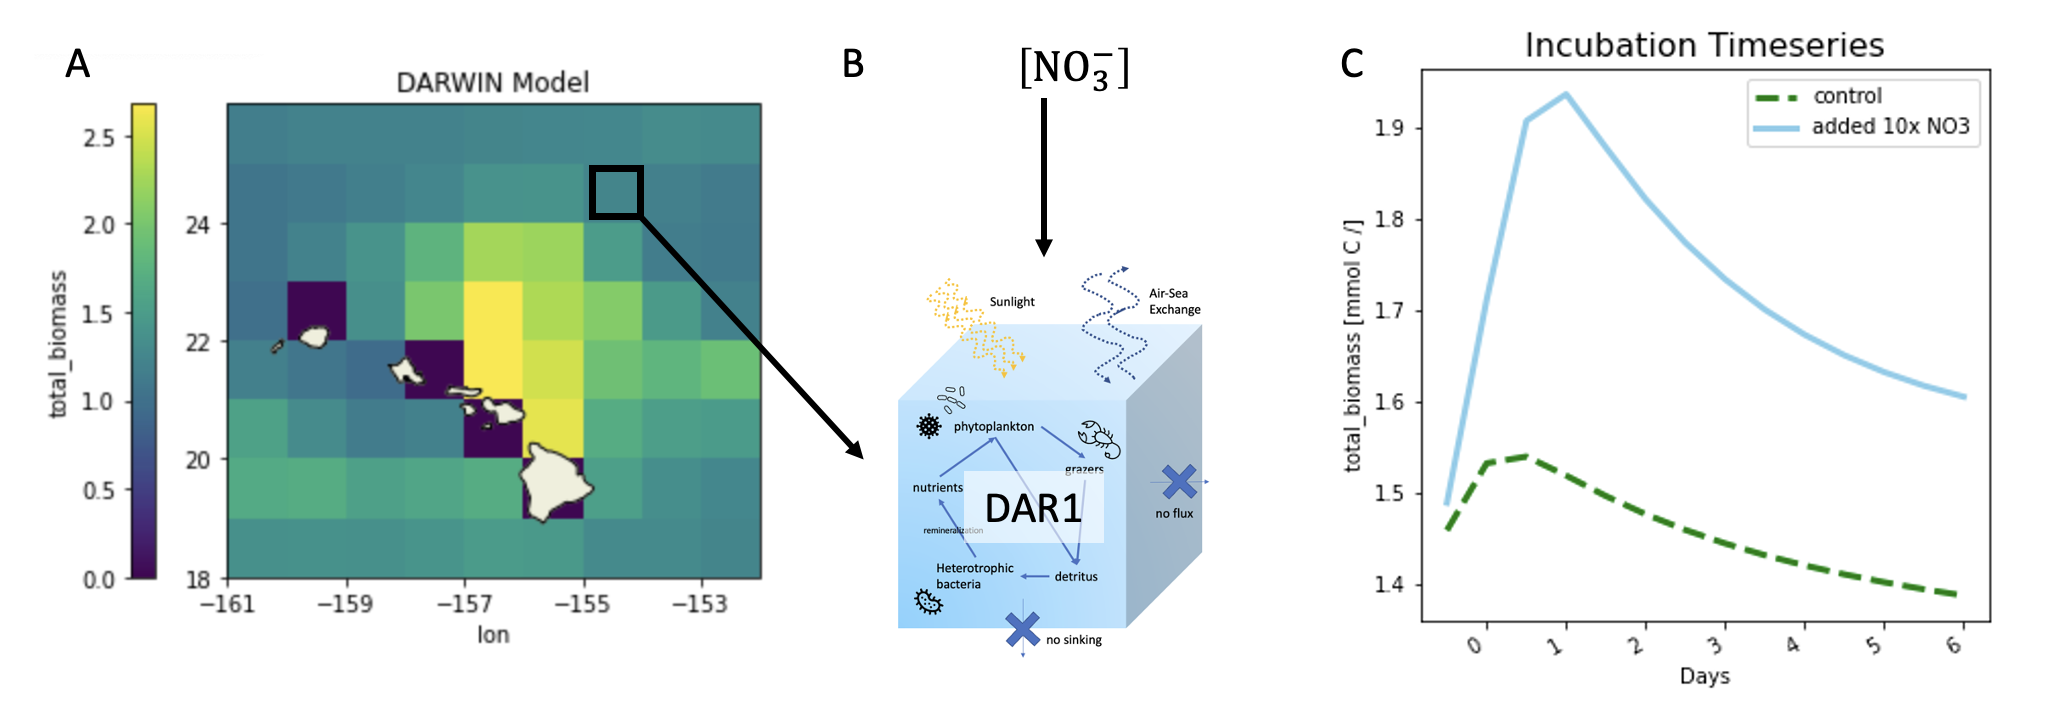
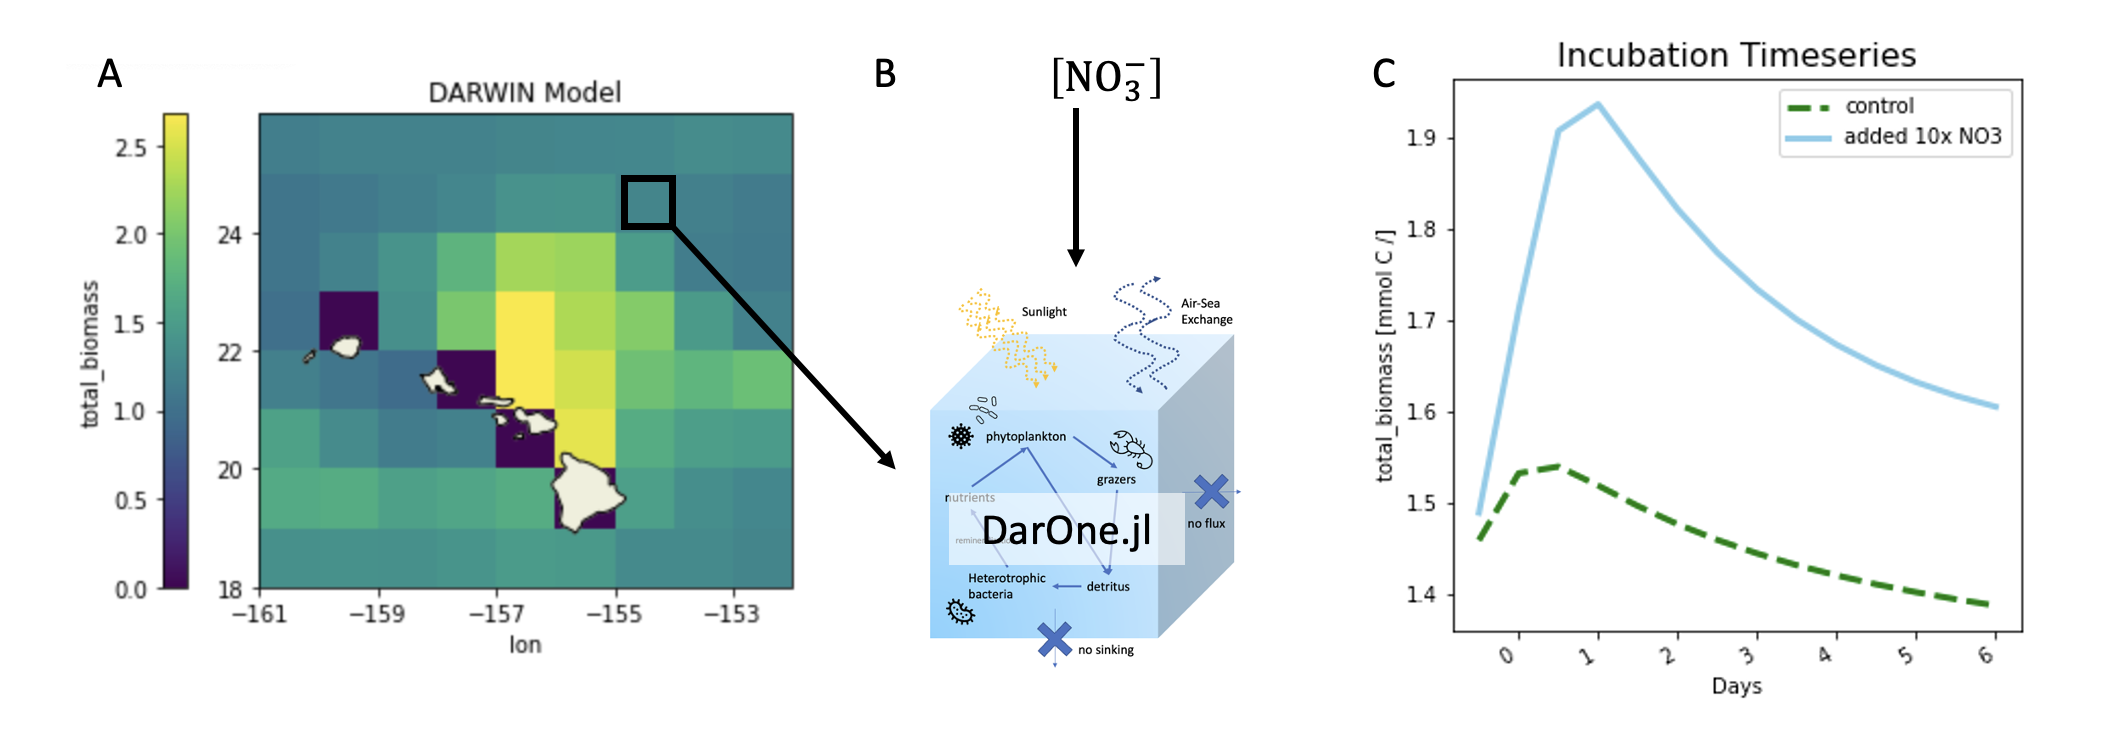
renamed dar1 -> DarOne across all docs, and updated images

diff --git a/docs/src/getting_started.md b/docs/src/getting_started.md
@@ -2,22 +2,22 @@
 
 DarOne.jl is a tool for designing and running experiments simulating the marine microbiome within a single cube of water. The biogeochemical forcing is powered by the [MIT Darwin Model](https://darwinproject.mit.edu/), and DarOne.jl provides a Julia interface to build, configure, and run experiments with a simple, streamlined workflow.
 
-![dar1 ecosystem](images/dar1_ecosystem.png)
+![DarOne ecosystem](images/DarOne_ecosystem.png)
 
-DAR1 Model Configuration: The DAR1 system models a single, well mixed parcel of water. The standard configuration consists of the DARWIN ecosystem-biogeochemical model, with free gas exchange with the atmosphere. Horizontal and other vertical fluxes are set to zero. These conditions can be modified by the user.
+DarOne Model Configuration: The DarOne system models a single, well mixed parcel of water. The standard configuration consists of the DARWIN ecosystem-biogeochemical model, with free gas exchange with the atmosphere. Horizontal and other vertical fluxes are set to zero. These conditions can be modified by the user.
 
 # Basic Structure 
 
-DAR1 is composed of three main parts: the MITgcm Darwin code, a configuration made for DAR1, and the julia interface to modify the configuration and run the model. 
+DarOne is composed of three main parts: the MITgcm Darwin code, a configuration made for DarOne, and the julia interface to modify the configuration and run the model. 
 
 - [DarOne.jl](https://github.com/DarOneModel/DarOne.jl) - Julia interface for organizing experiments and setting up parameters for model runs
     - `MITgcm_path` variable needs to point to darwin3
 - [darwin3](https://github.com/darwinproject/darwin3) - MITgcm source code set up to include all things Darwin 
-    - `dar_one_config` - folder for the base configuration files for DAR1, which lives in the darwin3/verification/ folder. ([DAR1_config github](https://github.com/barbara42/dar_one_config))
+    - `dar_one_config` - folder for the base configuration files for DarOne, which lives in the darwin3/verification/ folder. ([DarOne_config github](https://github.com/barbara42/dar_one_config))
 
-Experiments are designed and run in a Julia file using the DAR1 Julia interface. This will create a unique run folder nested underneath the MITgcm darwin code and the dar_one_config folder. You will never have to look at the fortran of MITgcm Darwin or at the configuration files! However, output of the experiment is saved underneath that unique run folder that is created in `darwin3/verification/dar_one_config/run`.
+Experiments are designed and run in a Julia file using the DarOne Julia interface. This will create a unique run folder nested underneath the MITgcm darwin code and the dar_one_config folder. You will never have to look at the fortran of MITgcm Darwin or at the configuration files! However, output of the experiment is saved underneath that unique run folder that is created in `darwin3/verification/dar_one_config/run`.
 
-![DAR1 Anatomy](images/dar1_anatomy.png)
+![DarOne Anatomy](images/DarOne_anatomy.png)
 
 
 # Installation 
@@ -29,8 +29,8 @@ using Pkg
 Pkg.add("DarOne")
 ```
 
-DAR1 can be run in one of two ways. 
-1) In a **docker container** using the DAR1_docker image, where all dependencies are handled for you 
+DarOne can be run in one of two ways. 
+1) In a **docker container** using the DarOne_docker image, where all dependencies are handled for you 
 2) On your local machine, where you have to set up the environment, download dependencies, etc 
     - this is more time consuming, and I strongly recommend using the docker image
     - instructions for local setup are below
@@ -39,16 +39,16 @@ DAR1 can be run in one of two ways.
 
 (1) Download and install [docker desktop](https://www.docker.com/).
 - Run the docker application, which will start up the docker "daemon" 
-- The docker daemon must be running in order to download the DAR1 image and to start up a container
+- The docker daemon must be running in order to download the DarOne image and to start up a container
 
-(2) Get the [DAR1_docker image](https://hub.docker.com/repository/docker/birdy1123/dar1).
+(2) Get the [DarOne docker image](https://hub.docker.com/repository/docker/birdy1123/dar1).
 - using the command line, run 
 
     `docker pull birdy1123/dar1`
 
-- If you go to the "Images" tab in the docker desktop UI, you should see "birdy1123/DAR1_docker"
+- If you go to the "Images" tab in the docker desktop UI, you should see "birdy1123/dar1"
 
-(3) Run a container based on the DAR1_docker image
+(3) Run a container based on the DarOne docker image
 - using the command line, run 
 
     `docker run -it birdy1123/dar1` 
@@ -90,7 +90,7 @@ git clone https://github.com/barbara42/dar_one_config.git
 ```
 
 After these steps, you should have 
-1. the DAR1 source code 
+1. the DarOne source code 
 2. the darwin3 source code
 3. the `dar_one_config` code nested under `darwin3/verification`
 
@@ -142,7 +142,7 @@ RUN apt-get install -y libnetcdff-dev
 
 For more in-depth instructions, check out the [beginner tutorials](https://daronemodel.github.io/DarOne.jl/build/beginner_tutorials/)
 
-In general, experiments with DAR1 are divided into two main steps 
+In general, experiments with DarOne are divided into two main steps 
 1. Building
     - grid size
     - nutrient cycling
@@ -154,7 +154,7 @@ I like to separate these out into two scripts because the build step only has to
 
 I recommend creating a folder at the top level of the `DarOne.jl` directory with the name `your-name-experiments`, and putting all scripts you create in there.
 
-For every DAR1 script, you will first import DarOne. Run scripts using `julia --project=.` from the `DarOne.jl` folder.
+For every DarOne script, you will first import DarOne. Run scripts using `julia --project=.` from the `DarOne.jl` folder.
 ```
 using DarOne
 ```

diff --git a/docs/src/beginner_tutorials.md b/docs/src/beginner_tutorials.md
@@ -136,9 +136,9 @@ The `3d.nc` file contains information about nutrient levels and the biomass of a
 
 # Grid 
 
-MITgcm DARWIN is built to run in a grid, calculating the fluxes as things flow from one grid cell to another. By turning off advection and diffusion between grid cells, we can essentially run DAR1 in parallel. That is, multiple blocks of water that do not interact with each other. 
+MITgcm DARWIN is built to run in a grid, calculating the fluxes as things flow from one grid cell to another. By turning off advection and diffusion between grid cells, we can essentially run DarOne in parallel. That is, multiple blocks of water that do not interact with each other. 
 
-In order to run DAR1 in parallel, you first must specify the number of cells in the X and Y direction before building. In this example, we're creating a 4x4 grid.
+In order to run DarOne in parallel, you first must specify the number of cells in the X and Y direction before building. In this example, we're creating a 4x4 grid.
 
 ```
 nX = 4
@@ -225,14 +225,14 @@ And finally, we can run!
 dar_one_run(config_obj)
 ```
 
-To recap, in this example we created a 4x4 grid of DAR1s, each with the same initial amount of nutrients (with the exception of NO3) and prochlorococcus. Along one axis, we initialized each grid cell to have 3.0, 4.67, 6.33, and 8.0 mmol NO3, and along the other axis we set the temperature to be 20.0, 26.67, 33.33, and 40.0 degrees C. 
+To recap, in this example we created a 4x4 grid of DarOnes, each with the same initial amount of nutrients (with the exception of NO3) and prochlorococcus. Along one axis, we initialized each grid cell to have 3.0, 4.67, 6.33, and 8.0 mmol NO3, and along the other axis we set the temperature to be 20.0, 26.67, 33.33, and 40.0 degrees C. 
 
 
 # Constant Nutrients 
 
-In a normal DAR1 configuration, the nutrients cycle through organic pathways and are then remineralized. When organisms grow, they take the nutrients out of the water and turn them into biomass. In a "constant nutrient" state, however, we can hold the amount of nutrients available in the water constant, so that the uptake by organisms doesn't deplete the reserve. 
+In a normal DarOne configuration, the nutrients cycle through organic pathways and are then remineralized. When organisms grow, they take the nutrients out of the water and turn them into biomass. In a "constant nutrient" state, however, we can hold the amount of nutrients available in the water constant, so that the uptake by organisms doesn't deplete the reserve. 
 
-With DAR1 you can hold any subset of the nutrients constant. As with a grid setup, this requires built-time changes, made by using the `hold_nutrients_constant` method before building. There are 19 nutrient tracers (DIC, NO3, NO2, NH4, PO4, SiO2, FeT, DOC, DON, DOP, DOFe, PIC, POC, PON, PIP, PISi, POFe, ALK, O2), and `hold_nutrients_constant` takes a list of length 19, each element representing the nutrients in the order they are listed. In that list, a 0 represents holding a nutrient constant (dN/dt = 0), and 1 means that the concentration of that nutrient will be depleted and replentished with biomass growth and remineralization. 
+With DarOne you can hold any subset of the nutrients constant. As with a grid setup, this requires built-time changes, made by using the `hold_nutrients_constant` method before building. There are 19 nutrient tracers (DIC, NO3, NO2, NH4, PO4, SiO2, FeT, DOC, DON, DOP, DOFe, PIC, POC, PON, PIP, PISi, POFe, ALK, O2), and `hold_nutrients_constant` takes a list of length 19, each element representing the nutrients in the order they are listed. In that list, a 0 represents holding a nutrient constant (dN/dt = 0), and 1 means that the concentration of that nutrient will be depleted and replentished with biomass growth and remineralization. 
 
 To set all nutrients constant, use the following code 
 

diff --git a/README.md b/README.md
@@ -25,11 +25,11 @@ DarOne.jl is a tool for designing and running experiments simulating the marine 
 - [DarOne.jl](https://github.com/DarOneModel/DarOne.jl) - Julia interface for organizing experiments and setting up parameters for model runs
     - `MITgcm_path` variable should point to darwin3
 - [darwin3](https://github.com/darwinproject/darwin3) - MITgcm source code set up to include all things Darwin 
-    - `DAR1_config` - folder for the base configuration files for DAR1, which lives in the darwin3/verification/ folder. ([DAR1_config github](https://github.com/barbara42/dar_one_config))
+    - `DarOne_config` - folder for the base configuration files for DarOne, which lives in the darwin3/verification/ folder. ([DarOne_config github](https://github.com/barbara42/dar_one_config))
 
 
-DAR1 can be run in one of two ways. 
-1) In a **docker container** using the DAR1_docker image, where all dependencies are handled for you 
+DarOne can be run in one of two ways. 
+1) In a **docker container** using the DarOne_docker image, where all dependencies are handled for you 
 2) On your local machine, where you have to set up the environment, download dependencies, etc 
     - this is more time consuming, and I strongly recommend using the docker image
     - instructions for local setup are below
@@ -38,21 +38,21 @@ DAR1 can be run in one of two ways.
 
 (1) Download and install [docker desktop](https://www.docker.com/).
 - Run the docker application, which will start up the docker "daemon" 
-- The docker daemon must be running in order to download the DAR1 image
+- The docker daemon must be running in order to download the DarOne image
 
-(2) Get the [DAR1_docker image](https://hub.docker.com/repository/docker/birdy1123/dar1).
+(2) Get the [DarOne docker image](https://hub.docker.com/repository/docker/birdy1123/dar1).
 - using the command line, run 
 
-    `docker pull birdy1123/DAR1_docker`
+    `docker pull birdy1123/dar1`
 
-- If you go to the "Images" tab in the docker desktop UI, you should see "birdy1123/DAR1_docker"
+- If you go to the "Images" tab in the docker desktop UI, you should see "birdy1123/dar1"
 
-(3) Run a container based on the DAR1_docker image
+(3) Run a container based on the DarOne docker image
 - using the command line, run 
 
-    `docker run -it birdy1123/DAR1_docker` 
+    `docker run -it birdy1123/dar1` 
 - this runs the container in interactive mode (`-i`) with terminal access (`-t`) 
-- you should see the prompt change to `root@some-number:/DAR1_docker#`
+- you should see the prompt change to `root@some-number:/DarOne_docker#`
     - if the container is already running, you can connect to it with `docker exec -it [CONTAINER_ID] bash`
     - Note: connecting with `bash` rather than `sh` gives you more a powerful terminal (i.e. with tab completion) 
   
